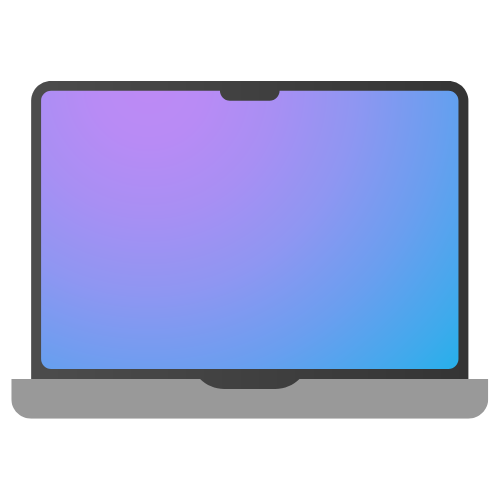
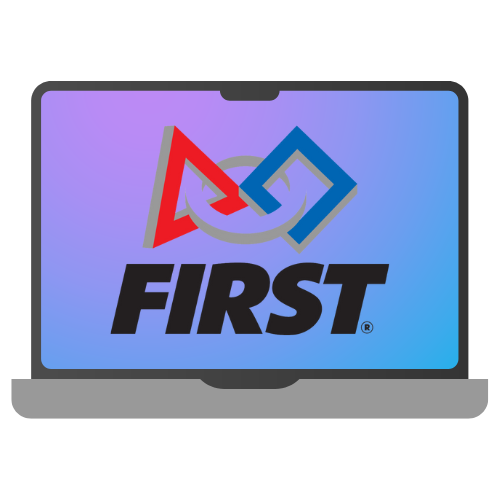
Added new image + added smooth scrolling for navar

Changed region(s): [[0.21, 0.24, 0.78, 0.69]]

diff --git a/app/components/navbar.jsx b/app/components/navbar.jsx
@@ -1,37 +1,71 @@
+'use client';
+
 // @flow strict
 import Link from "next/link";
-
+import { useEffect } from "react";
+import { useRouter } from 'next/navigation';
 
 function Navbar() {
-  return (
-    <nav className="bg-transparent">
-      <div className="flex items-center justify-between py-5">
-        <div className="flex flex-shrink-0 items-center">
-          <Link
-            href="/"
-            className=" text-[#16f2b3] text-3xl font-bold">
-            arushyadlapati.com
-          </Link>
-        </div>
+  const router = useRouter();
 
-        <ul className="mt-4 flex h-screen max-h-0 w-full flex-col items-start text-sm opacity-0 md:mt-0 md:h-auto md:max-h-screen md:w-auto md:flex-row md:space-x-1 md:border-0 md:opacity-100" id="navbar-default">
-          <li>
-            <Link className="block px-4 py-2 no-underline outline-none hover:no-underline" href="/#about">
-              <div className="text-sm text-white transition-colors duration-300 hover:text-pink-600">ABOUT</div>
+  useEffect(() => {
+    const handleSmoothScroll = (e) => {
+      const href = e.currentTarget.href;
+      const targetId = href.replace(/.*\#/, "");
+      if (targetId) {
+        e.preventDefault();
+        const targetElement = document.getElementById(targetId);
+        if (targetElement) {
+          targetElement.scrollIntoView({
+            behavior: "smooth"
+          });
+          // Update the URL without a page reload
+          window.history.pushState({}, '', href);
+        }
+      }
+    };
+
+    const links = document.querySelectorAll('a[href^="/#"]');
+    links.forEach(link => {
+      link.addEventListener("click", handleSmoothScroll);
+    });
+
+    return () => {
+      links.forEach(link => {
+        link.removeEventListener("click", handleSmoothScroll);
+      });
+    };
+  }, []);
+
+  return (
+      <nav className="bg-transparent">
+        <div className="flex items-center justify-between py-5">
+          <div className="flex flex-shrink-0 items-center">
+            <Link
+                href="/"
+                className="text-[#16f2b3] text-3xl font-bold">
+              arushyadlapati.com
             </Link>
-          </li>
-          <li>
-            <Link className="block px-4 py-2 no-underline outline-none hover:no-underline" href="/#experience"><div className="text-sm text-white transition-colors duration-300 hover:text-pink-600">EXPERIENCE</div></Link>
-          </li>
-          <li>
-            <Link className="block px-4 py-2 no-underline outline-none hover:no-underline" href="/#skills"><div className="text-sm text-white transition-colors duration-300 hover:text-pink-600">SKILLS</div></Link>
-          </li>
-          <li>
-            <Link className="block px-4 py-2 no-underline outline-none hover:no-underline" href="/#projects"><div className="text-sm text-white transition-colors duration-300 hover:text-pink-600">PROJECTS</div></Link>
-          </li>
-        </ul>
-      </div>
-    </nav>
+          </div>
+
+          <ul className="mt-4 flex h-screen max-h-0 w-full flex-col items-start text-sm opacity-0 md:mt-0 md:h-auto md:max-h-screen md:w-auto md:flex-row md:space-x-1 md:border-0 md:opacity-100" id="navbar-default">
+            <li>
+              <Link className="block px-4 py-2 no-underline outline-none hover:no-underline" href="/#about">
+                <div className="text-sm text-white transition-colors duration-300 hover:text-pink-600">ABOUT</div>
+              </Link>
+            </li>
+            <li>
+              <Link className="block px-4 py-2 no-underline outline-none hover:no-underline" href="/#experience"><div className="text-sm text-white transition-colors duration-300 hover:text-pink-600">EXPERIENCE</div></Link>
+            </li>
+            <li>
+              <Link className="block px-4 py-2 no-underline outline-none hover:no-underline" href="/#skills"><div className="text-sm text-white transition-colors duration-300 hover:text-pink-600">SKILLS</div></Link>
+            </li>
+            <li>
+              <Link className="block px-4 py-2 no-underline outline-none hover:no-underline" href="/#projects"><div className="text-sm text-white transition-colors duration-300 hover:text-pink-600">PROJECTS</div></Link>
+            </li>
+          </ul>
+        </div>
+      </nav>
   );
 };
 
